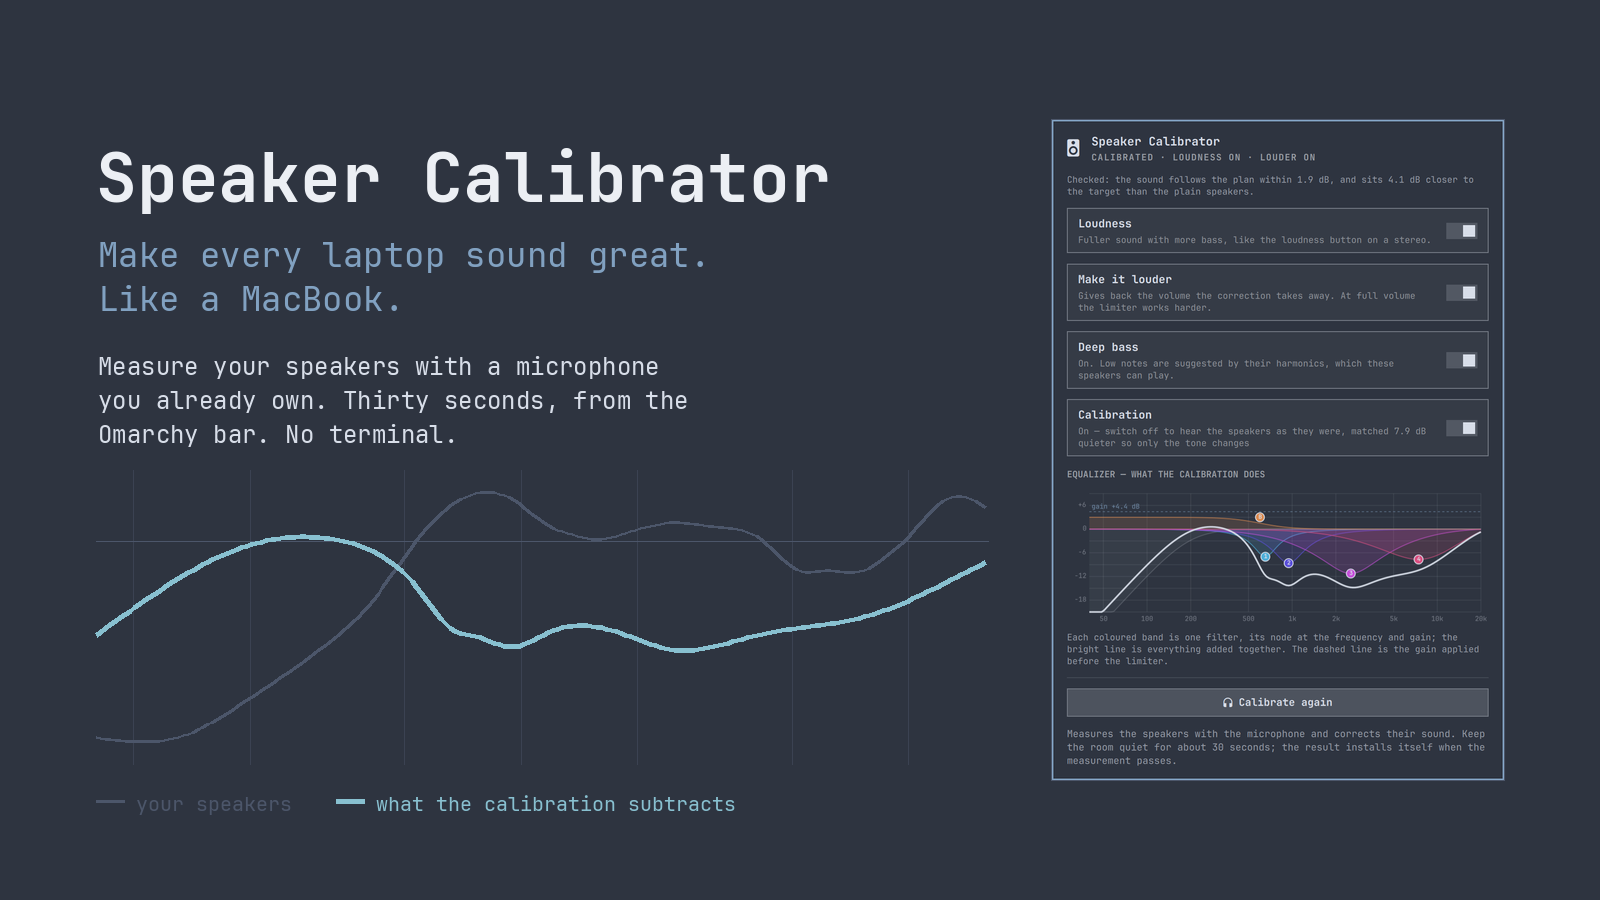
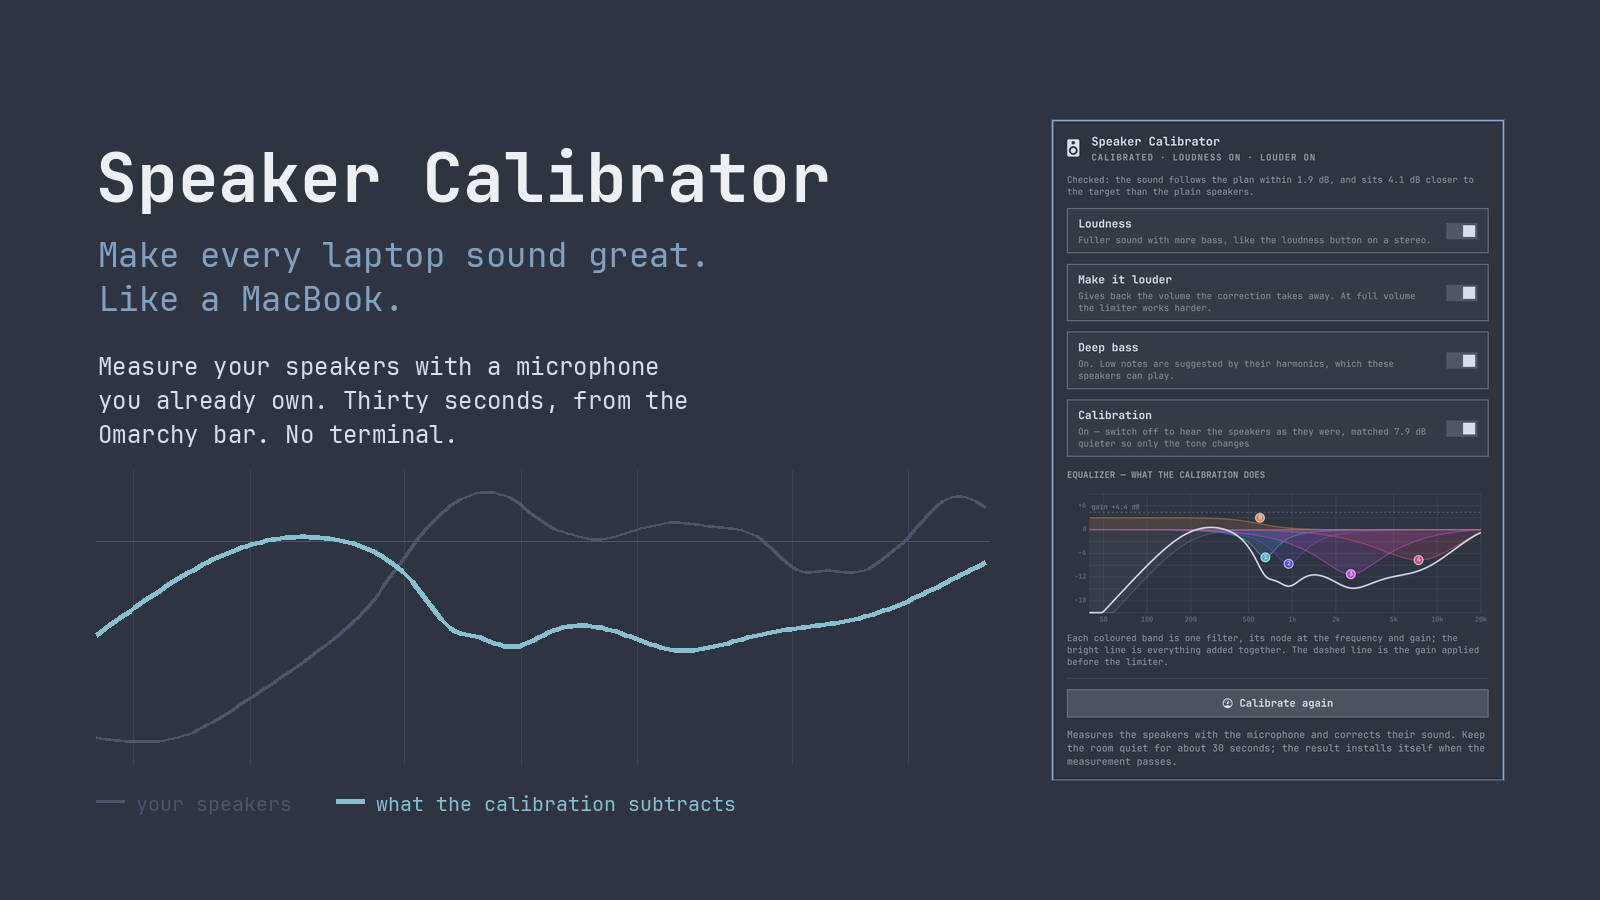
Stop the calibrate button wearing headphones
The button that measures the speakers carried a headphones icon. Headphones
are not what it measures, and they are the one thing that must not be in the
path while it runs, so the icon was pointing at the mistake rather than the
task. It is a gauge now, which is what the button does, and it does not
collide with the speaker and microphone glyphs the device rows already use.

Both images were showing the old icon, so they are taken again. The panel
screenshot is now the panel by itself at full size rather than a corner of a
desktop, which is easier to keep truthful.

diff --git a/Panel.qml b/Panel.qml
@@ -1087,7 +1087,9 @@ Panel {
             width: parent.width
             text: service.busy && service.phase === "measure" ? "Measuring… keep quiet"
               : (service.status.profile ? "Calibrate again" : "Calibrate speakers")
-            iconText: service.busy && service.phase === "measure" ? "" : ""
+            // A gauge, not headphones: this measures the speakers, and headphones
+                // are the one thing that must not be in the path while it does.
+                iconText: service.busy && service.phase === "measure" ? "" : ""
             iconSpinning: service.busy && service.phase === "measure"
             bordered: true
             selected: true

diff --git a/README.md b/README.md
@@ -33,7 +33,7 @@ Omarchy already ships.
 4. **That is it.** If the measurement passes its quality checks it installs
    itself and you are listening to the result.
 
-![The panel, over a running player](screenshot.png)
+![The panel: four switches, the equalizer, and the calibrate button](screenshot.png)
 
 Middle-click the bar icon to re-scan for devices. If a measurement fails a
 quality gate it is kept for diagnosis but never installed, so a bad
